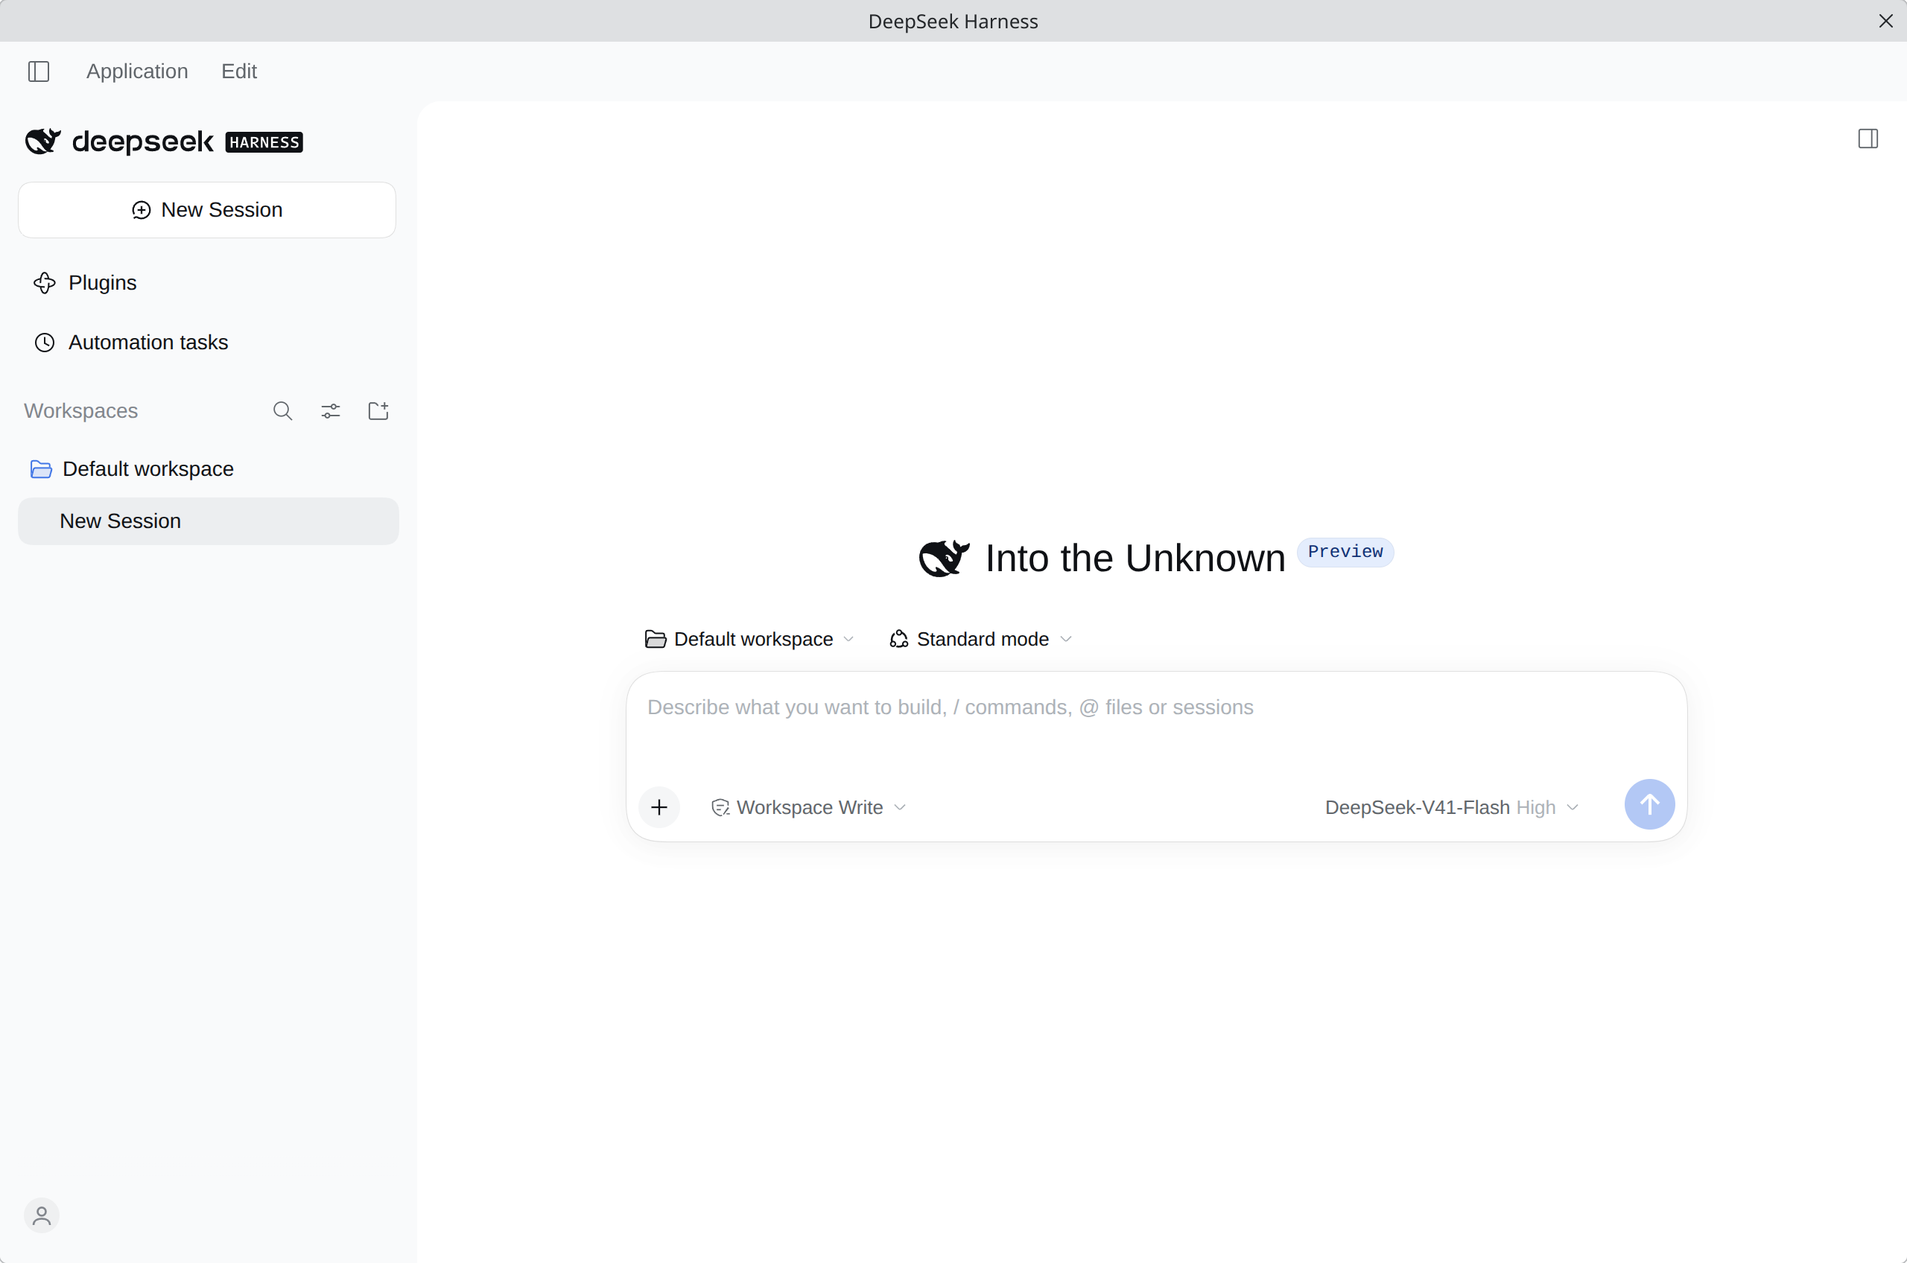
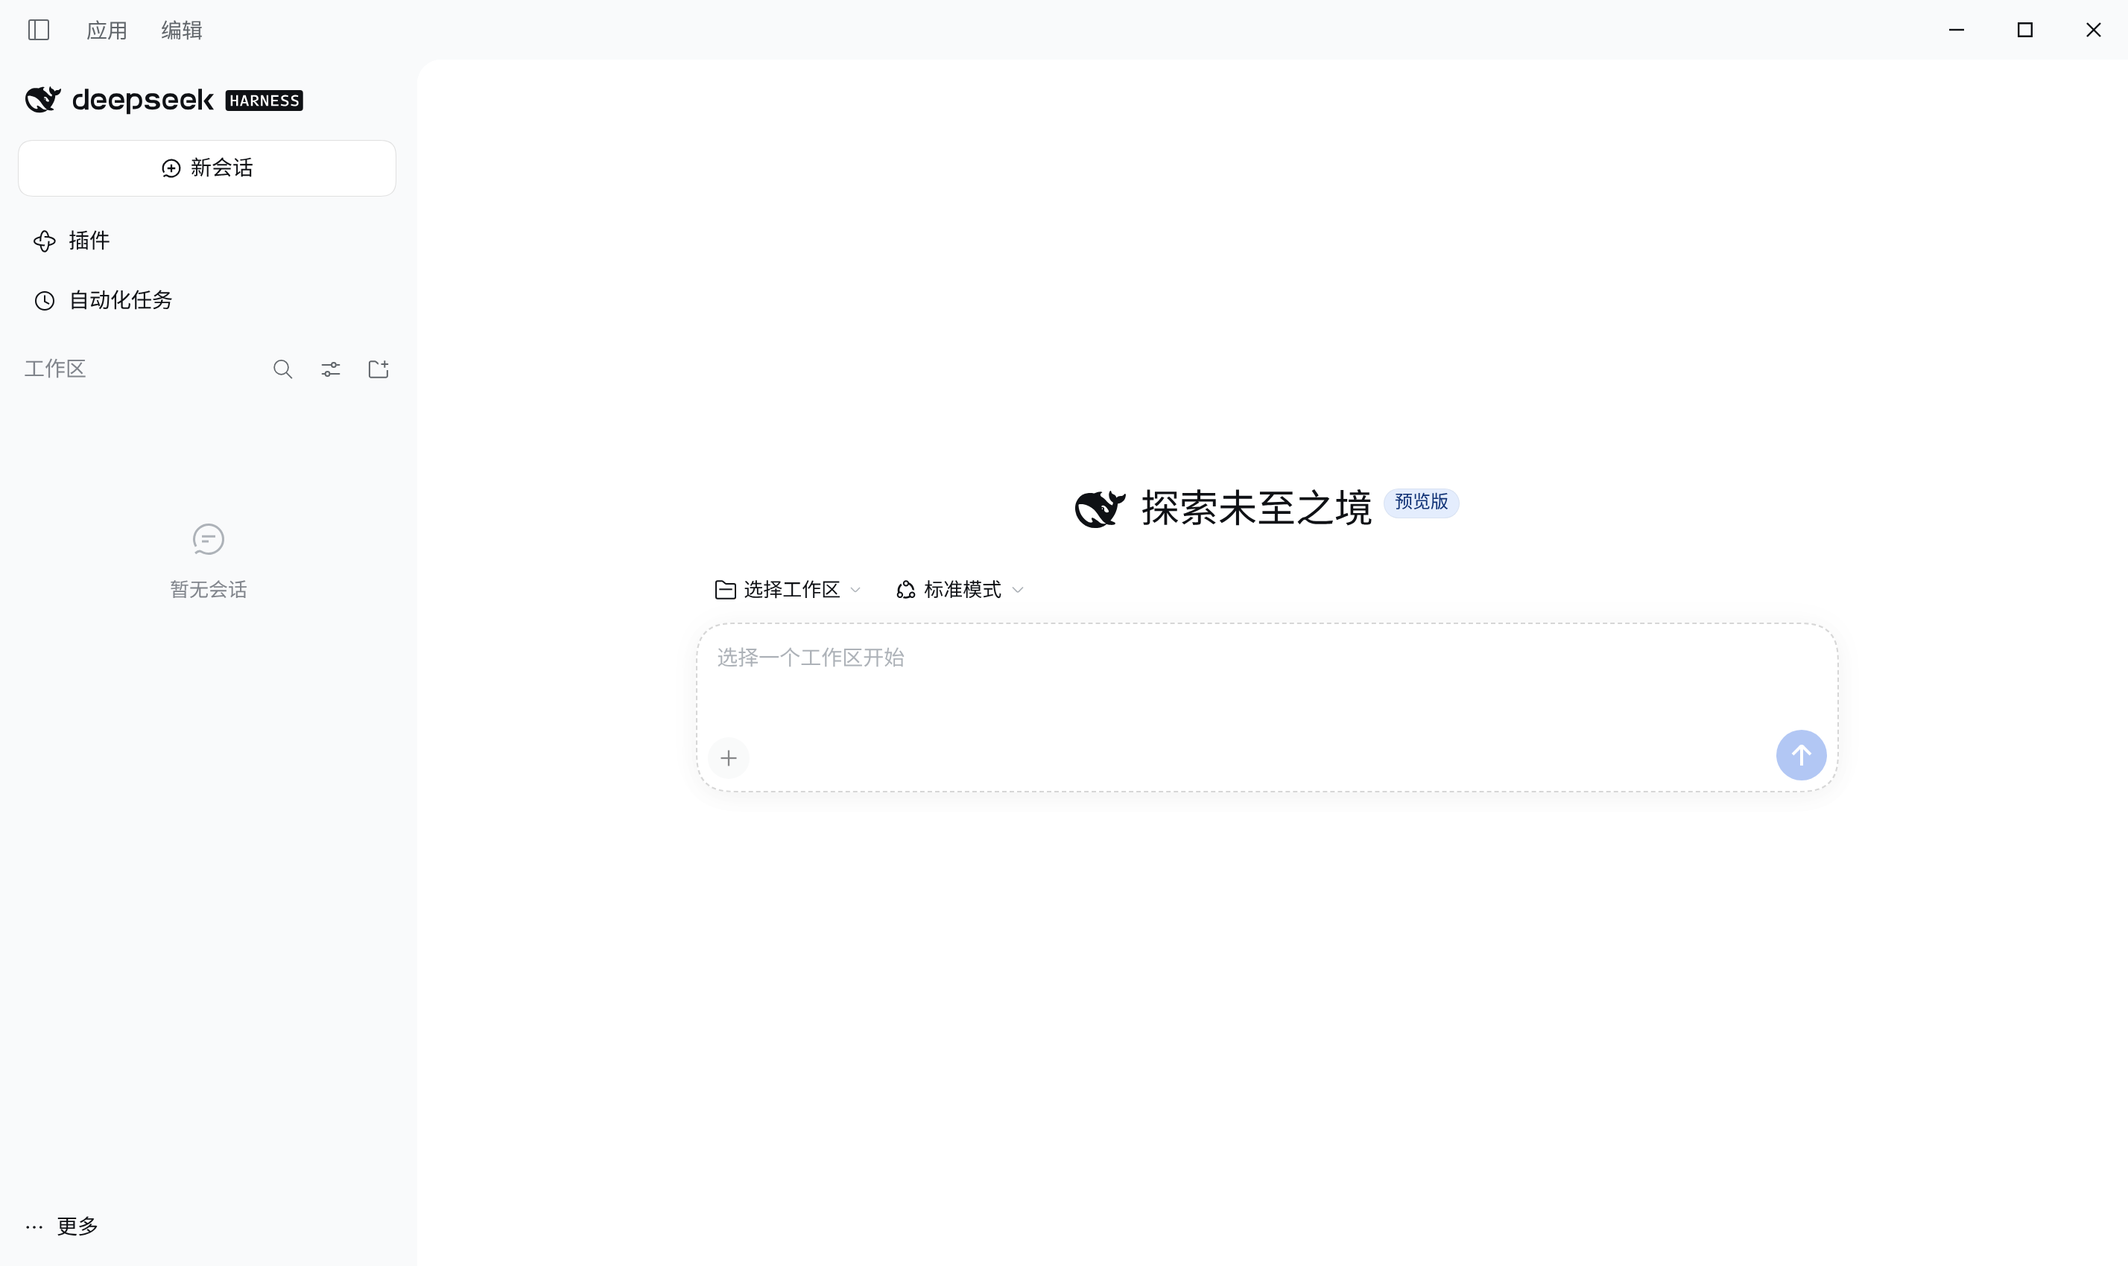
feat: Linux 标题栏改成无边框自绘，并保留「应用 / 编辑」菜单（0018）
本分支已同步到 ffyfox 的 master（上游 0.2.1-rc.2，他们的 0016 把 Windows 那套 caption 座位
接到 Linux：原生菜单栏关掉、页面拿到 data-windows-titlebar、挂上自绘的「应用 / 编辑」按钮）。
这个提交在它上面把窗口做成无边框，菜单那半原样保留：

- 新增 0018：Linux 主窗 frame: false；新的 preload 模块在 0016 的座位上自绘最小化 / 最大化 /
  关闭，动作走 dsh-desktop:window-controls，最大化状态由主进程经 window-controls-state 回推
  （Linux 上只有主进程知道窗口状态）。通道校验发送者 / frame / dsh-app://app/ 三项
- 0018 依赖 0016：座位与菜单由 0016 发布，所以单独打 0018 会得到没有座位的浮动按钮；拆成两个补丁
  是为了上游同步时能直接沿用他们的 0016
- 0003 增补：deb/rpm 声明托盘菜单依赖的 libdbusmenu-glib.so.4。不走 electron-builder 的 depends
  （给了就整份替换上游那 9 / 8 条默认依赖），走 fpm: ['-d', …] 追加；RPM 侧用 rich dependency
  覆盖 Fedora（libdbusmenu）与 Debian/openSUSE（libdbusmenu-glib4）的包名差异
- PKGBUILD：加入 0018、同步 0003 / 0018 的 sha256；pkgrel 1→2（上游 tag 未变，只是打包侧变了）
- scripts/verify.sh：两条产物断言（主进程的 frame: false 与窗口控制通道、preload 的控件模块）
- 测试：main-startup.spec.ts 的假窗口补上 maximized / isMaximized（否则 Linux 用例一触发
  did-finish-load 就 TypeError），并加一条「最大化状态回推到 caption」的用例
- README / README.en：新增「这个 fork 与原项目的区别」、标题栏段落、三个按钮 tooltip 是英文的
  已知限制；patches/README：0018 小节、0003 表格行、两条「注意」
- 头图换成这台机器实际跑出来的样子（2856x1700，无鼠标指针）

复验：17 个补丁在无 .git 的源码包树上 GNU patch 17/17 干净，apply-patches.sh 全量应用与顺序回退
都干净；build.sh --dir 出得来 linux-unpacked（Electron 44.7.0）；verify.sh 静态 16 通过 / 1 失败 /
3 跳过（唯一失败是「没有 AppImage/deb/rpm」，因为本轮只跑了 --dir）；apps/desktop 的
main-startup 与 preload-windows 两个 spec 129 tests 全过。运行中实测（CDP）：titlebarSeat=true、
band=40px、菜单按钮 ["应用","编辑"]、窗口控制 ["minimize","toggle-maximize","close"]。

diff --git a/patches/README.md b/patches/README.md
@@ -147,7 +147,7 @@ controller 重写（+206/−49），`cordis-client-runner` 的 slot 目录加了
 |---|---|---|
 | `0001-desktop-target-model-add-linux-x64.patch` | `desktop-build-paths.{mjs,d.mts}`、`desktop-auto-update-environment.{mjs,d.mts}`、`desktop-release-store.ts` | target 白名单加 `linux-x64`；`desktopTargetPlatform` 返回 `'linux'`；新增 `desktopElectronExecutablePath()`；保留清单的 schema 也认出 `linux-x64`（上游 0.2.1-alpha.3 新增的 `retain-desktop-ci.ts` 把 `resolveDesktopBuildTarget()` 的结果直接交给它，窄联合会让 `tsc -p tsconfig.host.json` 报错） |
 | `0002-package-target-add-linux-x64.patch` | `package-target.ts`、`desktop-upload-plan.ts` | 打包目标表加 `linux-x64`；Linux 构建主机校验（当初还放宽了 `--unsigned` 的平台限制，0.2.1-alpha.2 起上游把那条限制整条删掉，这一半随之消失） |
-| `0003-electron-builder-linux-configuration.patch` | `electron-builder-config.mjs` | Linux 关闭 asar；显式 `executableName`；Linux 不嵌入强制更新策略；Linux 的打包格式与包元数据来自发布设置（见 `0011`）；显式钉住 deb/rpm 的 `packageName` / `packageCategory` 与 `linux.synopsis`；用 `appImage.executableArgs: []` 去掉 legacy 工具集写死的 `--no-sandbox`；Linux 图标显式指定为 SVG —— 单个 PNG 文件会被 electron-builder **原样按自身像素尺寸**装进 `hicolor/1024x1024/apps`，而多个发行版的 `hicolor/index.theme` 并不声明该目录（Arch 就没有），图标会解析不到；SVG 落到 `hicolor/scalable/apps`，所有发行版都声明 |
+| `0003-electron-builder-linux-configuration.patch` | `electron-builder-config.mjs` | Linux 关闭 asar；显式 `executableName`；Linux 不嵌入强制更新策略；Linux 的打包格式与包元数据来自发布设置（见 `0011`）；显式钉住 deb/rpm 的 `packageName` / `packageCategory` 与 `linux.synopsis`；deb/rpm 声明托盘菜单依赖的 `libdbusmenu-glib.so.4`（走 fpm 追加，见「注意」）；用 `appImage.executableArgs: []` 去掉 legacy 工具集写死的 `--no-sandbox`；Linux 图标显式指定为 SVG —— 单个 PNG 文件会被 electron-builder **原样按自身像素尺寸**装进 `hicolor/1024x1024/apps`，而多个发行版的 `hicolor/index.theme` 并不声明该目录（Arch 就没有），图标会解析不到；SVG 落到 `hicolor/scalable/apps`，所有发行版都声明 |
 | `0004-prepare-target-electron-distribution.patch` | `prepare-dsh.ts`、`prepare-runtime.ts` | Electron 分发路径按 target 推导，不再假设「非 mac 即 win32」；打包期 `pnpm install` / 运行时冒烟改用 Host 运行时；`versions.json.node` 记为 payload 实际运行的 Node 版本；Linux 上整块跳过 rc.2 新增的 `prepare:cli`（见「注意」） |
 | `0005-desktop-linux-release-settings.patch` | `desktop-package-environment.{mjs,d.mts}`、`desktop-toolchain-preflight.ts`、`.gitignore`、`.env.linux.example`、`tests/desktop-package-environment.spec.ts` | 支持 `.env.linux`；Linux 不套用 Windows/macOS 专属设置；Linux 不要求策略 origin；修掉 `win32 ? … : macOS` 的隐含假设；Linux 文件白名单加 `MAINTAINER`/`HOMEPAGE`（并从环境里剥掉，保证发布设置只由文件拥有）；打了 rpm 才预检 `rpmbuild` |
 | `0006-desktop-package-linux-scripts.patch` | `apps/desktop/package.json` | `package:linux:x64` / `package:linux:x64:dir` |
@@ -211,6 +211,21 @@ controller 重写（+206/−49），`cordis-client-runner` 的 slot 目录加了
 
 `0017` 的每个文件也属于 `0008`，且它的 diff 上下文含 `0008` 新增的行，所以**只有排在 `0008` 之后才成立**
 （见开头那条例外）。
+
+## 让 Linux 的标题栏没有系统边框（0018）
+
+| 补丁 | 覆盖文件 | 内容 |
+|---|---|---|
+| `0018-desktop-linux-frameless-caption.patch` | `src/main.ts`、`src/ipc.ts`、`src/preload-app.ts`、`src/preload-linux-caption.ts` | Linux 主窗去掉 OS 边框（`frame: false`）；新的 preload 模块在 `0016` 的 caption 座位上自绘最小化 / 最大化 / 关闭，动作走 `dsh-desktop:window-controls`，最大化状态由主进程经 `window-controls-state` 回推。座位本身、拖拽带、侧栏几何与「应用 / 编辑」菜单全部来自 `0016`，本补丁只补去边框与那三个按钮 |
+
+`0018` 依赖 `0016`：座位标记、拖拽带和菜单按钮由 `0016` 在 preload 里发布，`0018` 只是在这条座位上
+再挂一组控件；单独打 `0018` 会得到一排浮在页面顶部、没有座位的按钮。反过来 `0016` 可以独立成立——
+那就是原项目的样子：保留系统装饰，只统一网页内那一条。
+
+为什么拆成两个补丁而不是并进 `0016`：`0016` 是原项目的设计，`0018` 是这个 fork 的取舍（连系统边框
+一起去掉）。拆开后与上游同步时可以直接沿用他们的 `0016`，`0018` 继续叠在上面；两者的 `main.ts`
+hunk 也不重叠。`0016` 里那句 `window.setMenuBarVisibility(false)` 对无边框主窗已是空操作，但欢迎窗
+仍是「另一条 `new BrowserWindow()` 路径」且保留系统边框，那条路径还需要它，所以没有删。
 
 ## Arch 包与 deb/rpm 构建树的差异（无害）
 
@@ -317,7 +332,19 @@ controller 重写（+206/−49），`cordis-client-runner` 的 slot 目录加了
   全库没有 `appindicator` 字样，`ldd` / `NEEDED` 里也没有，所以**不需要** libappindicator。
   但托盘菜单要 `libdbusmenu-glib.so.4`——那个库名和 `dbusmenu_*` 符号名都在二进制里，
   却不在 `NEEDED` 里（1519 个未定义动态符号里没有它），即 dlopen。缺了它图标照出、菜单是空的，
-  等于没有退出入口，而 `ldd` 和 namcap 都看不见，所以它由 PKGBUILD 显式写进 `depends`。
+  等于没有退出入口，而 `ldd` 和 namcap 都看不见，所以 Arch 包由 PKGBUILD 显式写进 `depends`，
+  deb/rpm 由 `0003` 声明。**deb/rpm 这条不能走 electron-builder 的 `depends`**：`FpmTarget`
+  只在没有 `depends` 时才回落到 `getDefaultDepends()`，给了它就整份替换掉上游那 9 / 8 条默认依赖，
+  等于把默认表复制进本仓库、以后上游加一条我们不会知道。所以走 `fpm: ['-d', …]` 追加：`FpmTarget`
+  把 `options.fpm` 原样塞进 fpm 参数，默认依赖表不受影响。包名两边不同——Debian 是
+  `libdbusmenu-glib4`，Fedora 是 `libdbusmenu`（openSUSE 又是前者），RPM 侧用默认表已经在用的
+  rich dependency 语法写成 `(libdbusmenu or libdbusmenu-glib4)`。
+- **`0018` 的窗口控制通道校验三件事**：发送者是主窗、发送 frame 是主 frame、URL 前缀是
+  `dsh-app://app/`，任一不满足就静默丢弃（它是 `ipcMain.on` 而不是 `handle`，抛出去就是主进程
+  未捕获异常）。反方向只回推一个布尔：Linux 上只有主进程知道无边框窗口是否最大化，所以由
+  `maximize` / `unmaximize` / `did-finish-load` 三处发 `window-controls-state`。
+- **三个窗口按钮的 tooltip 是英文。** Windows 的标题栏按钮由系统绘制、文案由系统本地化，这一份
+  是自绘的；而「应用 / 编辑」两个菜单按钮的文案走应用语言（`0016` 的 `installWindowsMenu()`）。
 - **Linux 上可靠的是托盘菜单，不是单击图标。** 实测把 SNI 的 `Activate` 调过去，Electron 的
   `tray.on('click')` 没有触发（StatusNotifierItem 宿主有权把左键用来弹菜单）。`DesktopTray`
   保留 click 处理是给 Windows 的；Linux 上「打开」走右键菜单，`verify.sh --runtime` 也是按

diff --git a/README.en.md b/README.en.md
@@ -18,6 +18,25 @@ actually been tested.
 
 ![The DeepSeek Harness desktop application](docs/screenshot.png)
 
+## How this fork differs from the original project
+
+This repository is a fork of
+[ffyfox/dsh-desktop-linux](https://github.com/ffyfox/dsh-desktop-linux), based on its `6fa3429`
+(upstream `dsh-v0.2.1-rc.2`). **The packaging pipeline itself is unchanged**: patches `0001`–`0017`,
+the `scripts/` and the `PKGBUILD` build logic are the original project's. This fork only adds:
+
+| Change | Content |
+|---|---|
+| New patch `0018-desktop-linux-frameless-caption.patch` | On top of the caption seat `0016` already wires up, the Linux main window goes **frameless**: the self-drawn minimize / maximize / close route through `dsh-desktop:window-controls`, and the main process publishes the maximized state. The seat itself, its drag region and the `Application / Edit` caption menus are all kept |
+| Patch `0003` extended | The deb and rpm packages declare `libdbusmenu-glib.so.4`, which the tray menu needs (the original project only declares it in the Arch PKGBUILD `depends`) |
+| `scripts/verify.sh` | One artifact assertion: `frame: false` and the window control channel in the main process, and the caption module in the preload |
+| Known limitations | One measured conclusion: a third-party plugin carrying a NAN native module built for Electron segfaults the Host |
+| `PKGBUILD` | Gains `0018` and the new `0003` hash; `pkgrel` 1→2 because the upstream tag did not move and only the packaging side changed |
+| Screenshot | The header image now shows what this fork actually runs (one self-drawn title bar + self-drawn controls + the Application/Edit menus) |
+
+Tracking upstream works exactly as in the original project: `scripts/fetch-upstream.sh` fetches the
+commit `PKGBUILD`'s `_tag` names and the patches are generated against it.
+
 ## What this project produces
 
 What this project ships is **the official Electron application itself**:
@@ -149,7 +168,14 @@ patch `0013` adds the tray: the icon stays for the whole run and carries a tray 
 
 - To get the window back: the tray menu's "Open", or launch the application again (a second launch
   only focuses the instance that is already running).
-- To really quit: the tray menu's "Quit", the `Application` → `Quit` menu item, or `Ctrl+Q`.
+- To really quit: the tray menu's "Quit", "Quit" in the title bar's Application menu, or `Ctrl+Q`.
+
+**The title bar is drawn locally.** Electron carries no Window Controls Overlay on Linux, so patch
+`0018` drops the main window's OS frame and reuses the same caption seat Windows receives from that
+overlay for a 40 DIP title bar: the sidebar toggle and the `Application / Edit` menus on the left
+(patch `0016` wires those Windows-style caption menu buttons to Linux), the self-drawn minimize /
+maximize / close on the right, both following the light and dark theme, and a drag region
+everywhere else. "Close" means the same as the system close button — hide the window, not quit.
 
 ### Plugin market host version
 
@@ -217,6 +243,9 @@ Both tables below are kept up to date as reports come in — please tell us how 
   (`mv ~/.dsh/profiles/desktop/node_modules/cpu-features{,.disabled}`, and `ssh2` falls back to its
   JavaScript implementation) or rebuild it for the local Node
   (`npm rebuild cpu-features --build-from-source`); the plugin itself can stay enabled.
+- **The three window buttons have English tooltips.** Windows draws its caption buttons and gets the
+  wording localized from the system; this one is drawn locally (`minimize` / `maximize` / `close`),
+  while the `Application / Edit` caption menu labels follow the application language.
 - **No auto-update.** Upstream's mandatory-update policy channel only recognises
   `desktop-win` / `desktop-mac` client identities, and Linux artifacts carry no
   update channel, so the Linux build embeds no policy, never polls, and never

diff --git a/README.md b/README.md
@@ -14,6 +14,24 @@ release target."*）。本项目补的就是这一块：让官方打包流水线
 
 ![DeepSeek Harness 桌面端界面](docs/screenshot.png)
 
+## 这个 fork 与原项目的区别
+
+本仓库是 [ffyfox/dsh-desktop-linux](https://github.com/ffyfox/dsh-desktop-linux) 的 fork，
+基线是它的 `6fa3429`（上游 `dsh-v0.2.1-rc.2`）。**打包流水线本身没有改**：补丁 `0001`–`0017`、
+`scripts/` 与 `PKGBUILD` 的构建逻辑都是原项目原样；这个 fork 只在上面叠加了下面这些。
+
+| 改动 | 内容 |
+|---|---|
+| 新补丁 `0018-desktop-linux-frameless-caption.patch` | 在 `0016` 已经接好的 caption 座位上，把 Linux 主窗做成**无边框**：自绘最小化 / 最大化 / 关闭走 `dsh-desktop:window-controls`，最大化状态由主进程回推。座位本身、拖拽带和「应用 / 编辑」菜单按钮全部保留 |
+| 补丁 `0003` 增补 | deb/rpm 声明托盘菜单要的 `libdbusmenu-glib.so.4`（原项目只在 Arch 的 PKGBUILD `depends` 里声明） |
+| `scripts/verify.sh` | 加一条产物断言：主进程的 `frame: false` 与窗口控制通道、preload 里的 caption 模块 |
+| 已知限制 | 补一条实测结论：第三方插件里为 Electron 编译的 NAN 原生模块会让 Host 段错误 |
+| `PKGBUILD` | 加入 `0018`、同步改动过的 `0003` 的 sha256；`pkgrel` 1→2（上游 tag 未变，只是打包侧变了） |
+| 截图 | 头图换成这个 fork 实际运行的样子（一条自绘标题栏 + 自绘三键 + 应用/编辑菜单） |
+
+与上游同步的方式不变：`scripts/fetch-upstream.sh` 拉 `PKGBUILD` 里 `_tag` 指的那个 commit，
+补丁相对它生成。
+
 ## 项目产物
 
 本项目的产物是**官方 Electron 应用本身**：
@@ -123,7 +141,12 @@ Arch 包只出未打包目录装进 `/opt/deepseek-harness-desktop`，`/usr/bin/
 参考上游在其他平台的实现，补丁 `0013` 把托盘补上：图标常驻，带托盘菜单。
 
 - 找回窗口：托盘菜单「打开」，或再启动一次（第二次启动只聚焦已有实例）。
-- 完全退出：托盘菜单「退出」、菜单栏 `Application` → `Quit`、或 `Ctrl+Q`。
+- 完全退出：托盘菜单「退出」、标题栏「应用」菜单里的「退出」、或 `Ctrl+Q`。
+
+**标题栏是自绘的。** Linux 上 Electron 没有 Window Controls Overlay，所以补丁 `0018` 让主窗去掉
+OS 边框，用与 Windows 相同的 caption 座位画一条 40 DIP 的标题栏：左边是 ☰ 与「应用 / 编辑」菜单
+（补丁 `0016` 把 Windows 那套自绘菜单按钮接到 Linux），右边是自绘的最小化 / 最大化 / 关闭，深浅色
+跟随主题；其余空白处是拖拽带，按住可以移动窗口。「关闭」与系统关闭键同义——隐藏窗口，不是退出。
 
 ### 插件市场的宿主版本
 
@@ -185,6 +208,8 @@ dsh-market 的宿主探测会落空；`0017` 把打包安装的 resources 根传
   `~/.config/@deepseek-ai/dsh-desktop/logs/crash-*-host.log`。恢复只需处理那个原生模块：挪走它
   （`mv ~/.dsh/profiles/desktop/node_modules/cpu-features{,.disabled}`，`ssh2` 会回落到 JS 实现）
   或按本机 Node 重编（`npm rebuild cpu-features --build-from-source`），插件本身不用停。
+- **标题栏三个窗口按钮的悬浮提示是英文。** Windows 的窗口按钮由系统绘制、文案由系统本地化；
+  Linux 这一份是自绘的（`minimize` / `maximize` / `close`），而「应用 / 编辑」菜单按钮的文案走应用语言。
 - **没有自动更新。** 上游的强制更新策略通道只认 `desktop-win` / `desktop-mac` 客户端身份，
   Linux 产物也没有更新通道，所以 Linux 版不嵌入策略、不轮询、不会自己更新。
 - **没有「安装命令行工具」入口。** 官方桌面端在 macOS / Windows 上能从菜单把自带的 `dsh` CLI 装进
